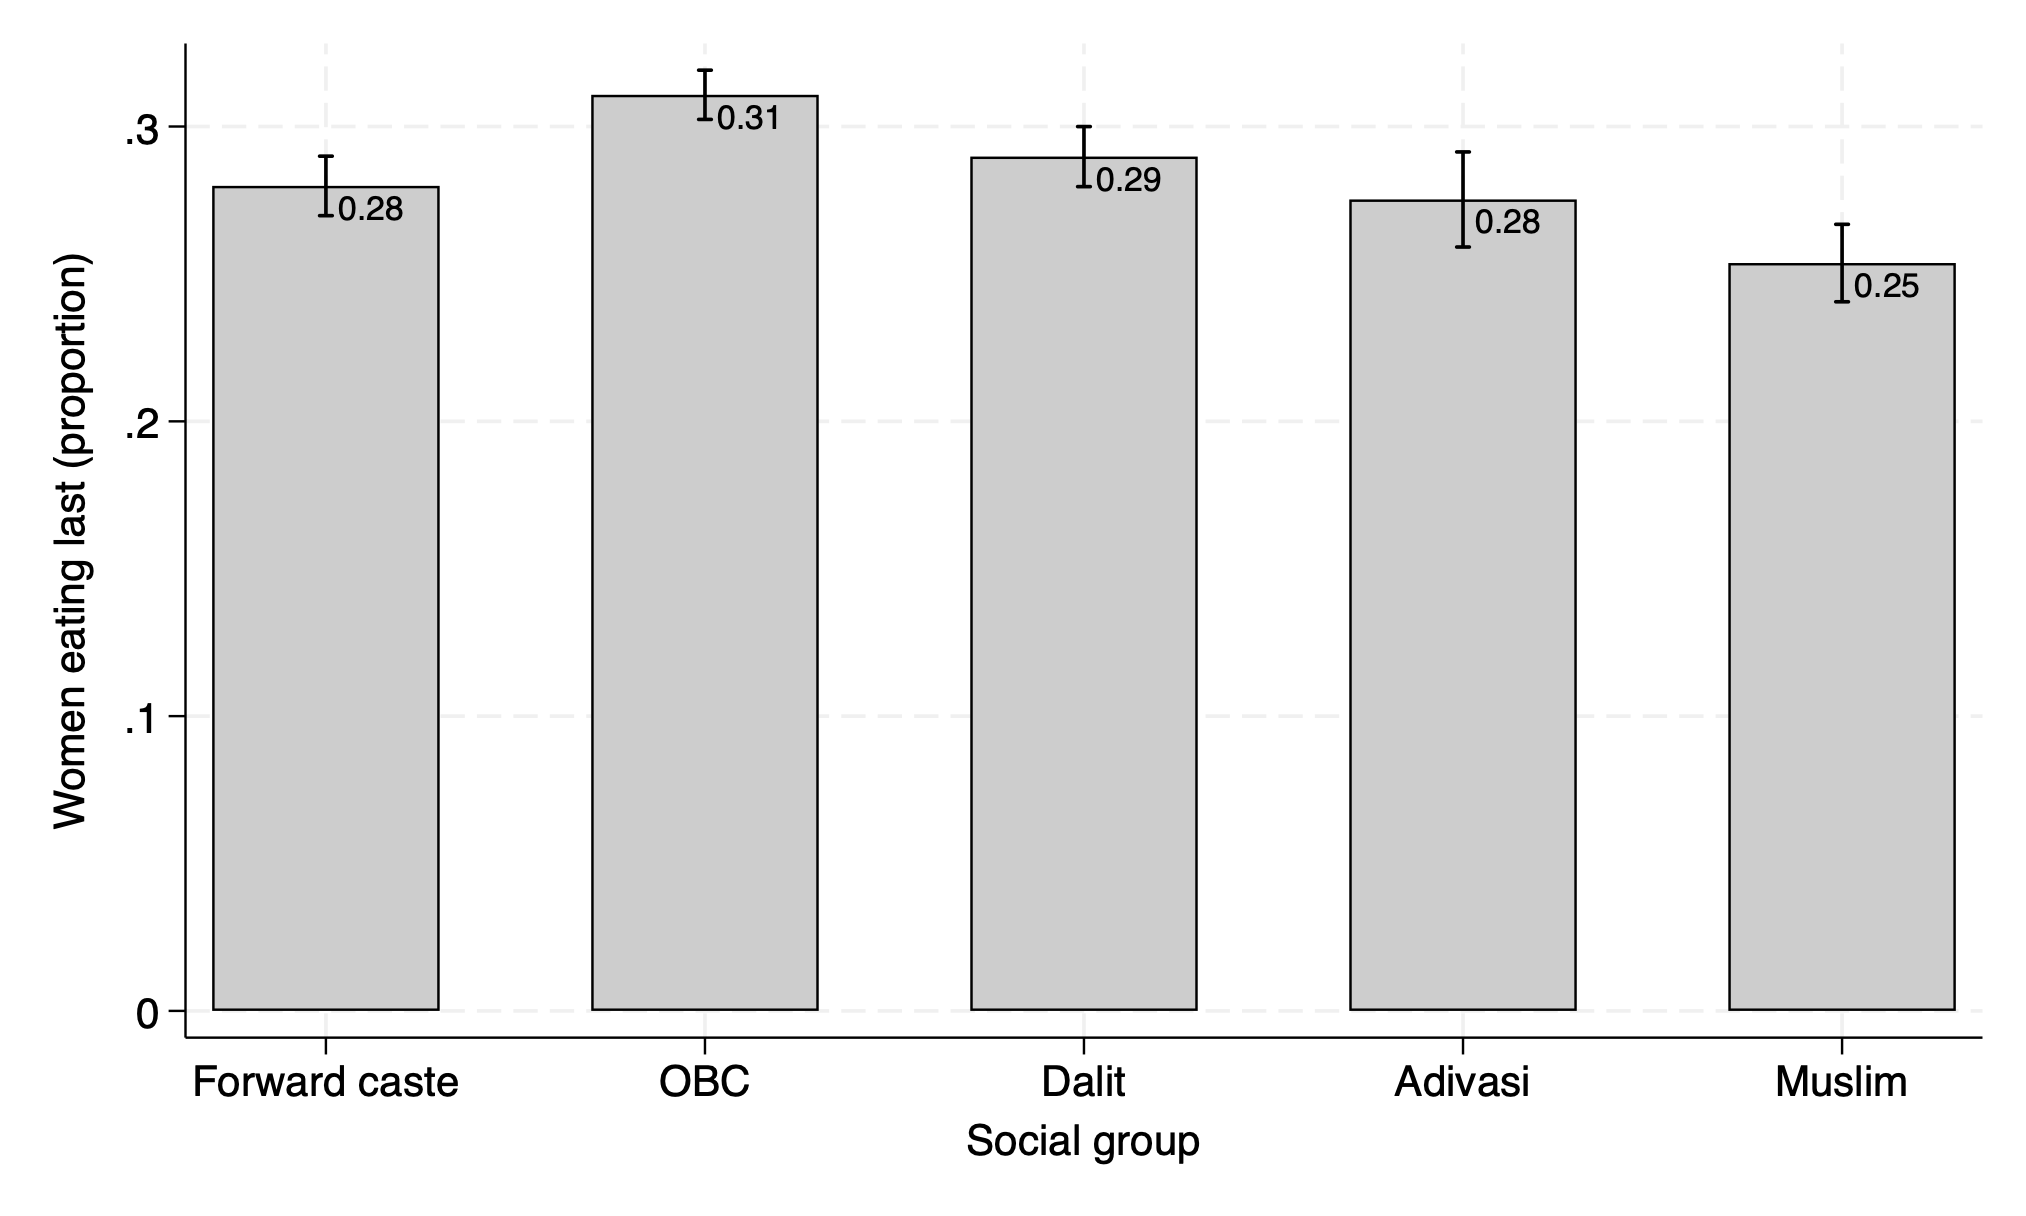
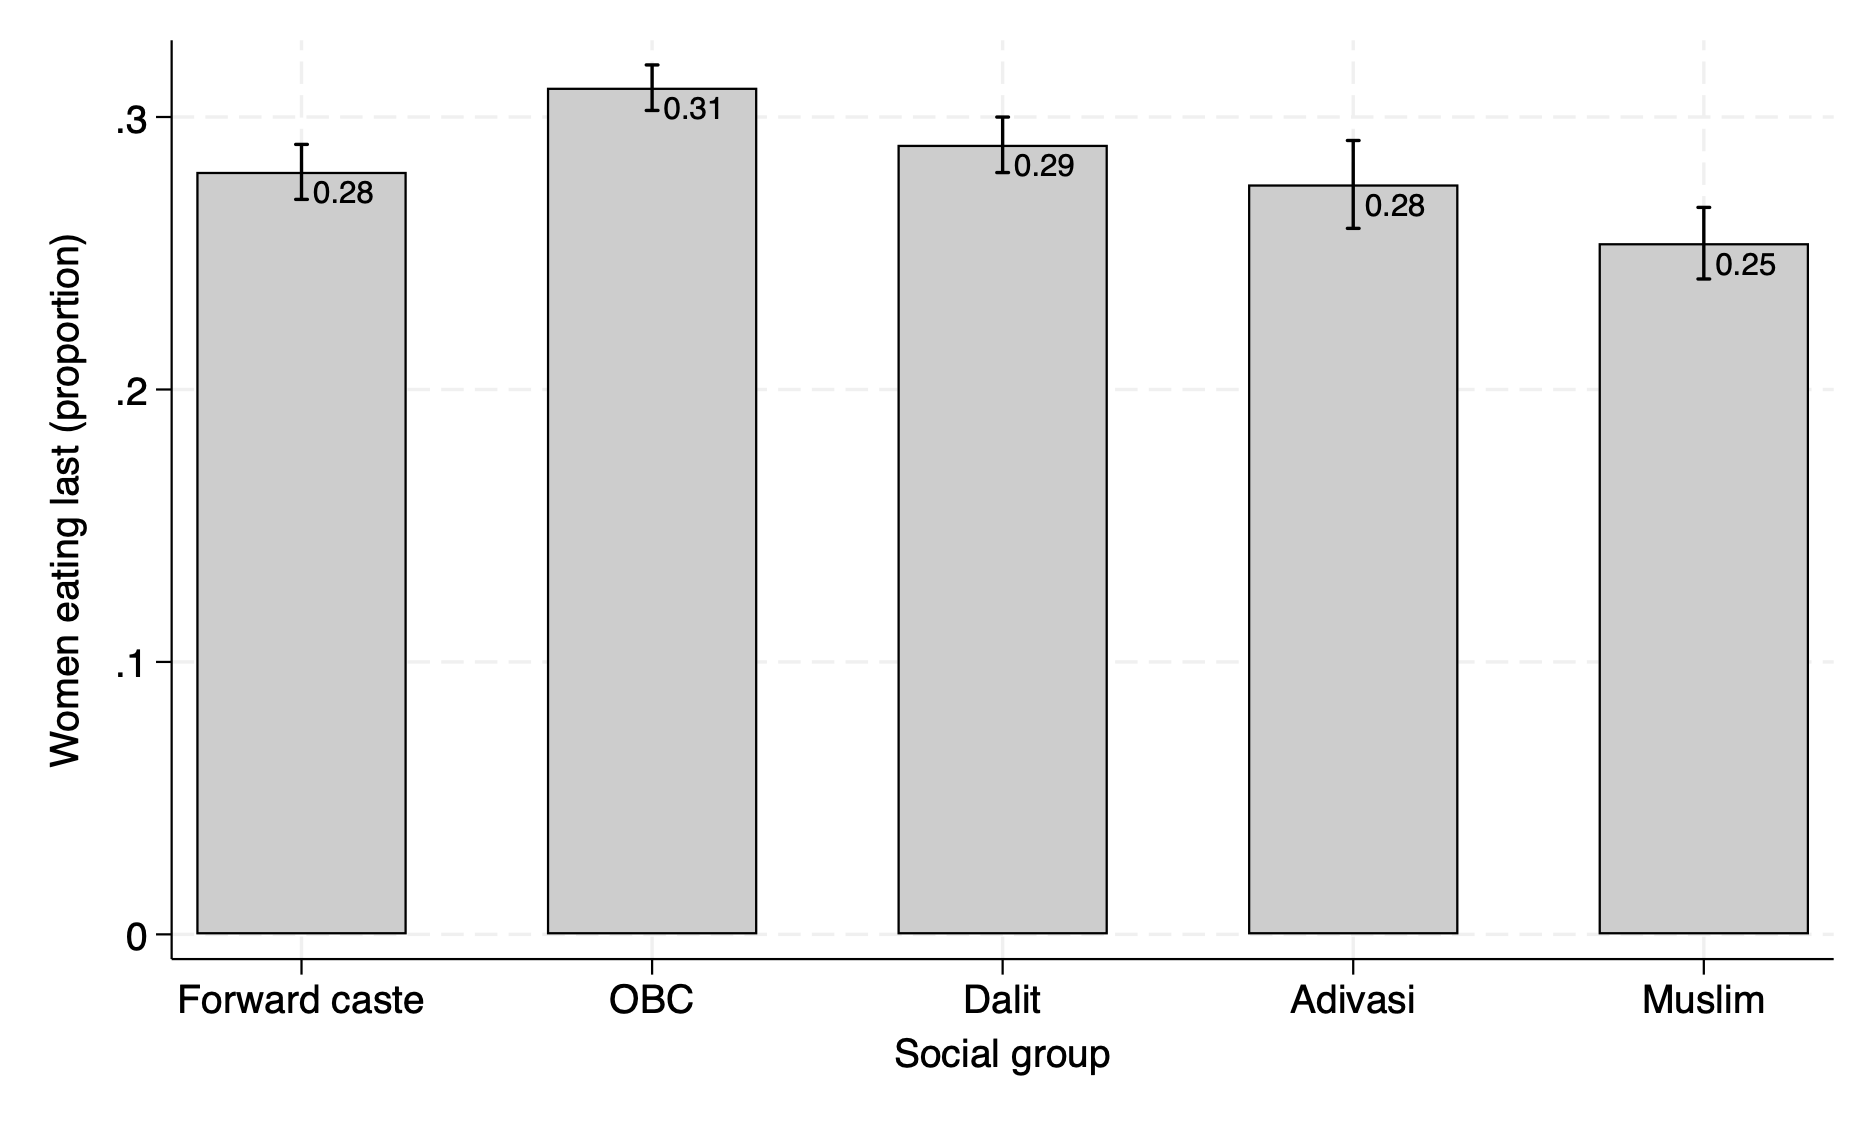
fixed

diff --git a/tables/addl_maternal_nutrition_table.tex b/tables/addl_maternal_nutrition_table.tex
@@ -1,6 +1,6 @@
 \begin{tabular}{l*{6}{>{\centering\arraybackslash}p{3.5cm}}}
 \toprule
-\Social Group & BMI & Weight (kg) & Overweight^a & Obesity^b & Weight gain \newline method 1 (kg)^c & Weight gain \newline method 2 (kg)^d \\\\
+\Social Group & BMI & Weight (lbs) & Overweight^a & Obesity^b & Weight gain \newline method 1 (lbs)^c & Weight gain \newline method 2 (lbs)^d \\\\
 \midrule
 Adivasi&20.6 [20.5, 20.7]&103.8 [103.0, 104.8]&0.12 [0.11, 0.14]&0.05 [0.04, 0.06]&15.0 [12.4, 17.5]&14.8 [11.8, 18.0]\\
 Dalit&21.2 [21.1, 21.3]&106.5 [106.2, 107.0]&0.18 [0.17, 0.19]&0.07 [0.07, 0.08]&15.5 [13.3, 17.7]&15.4 [13.5, 17.3]\\
